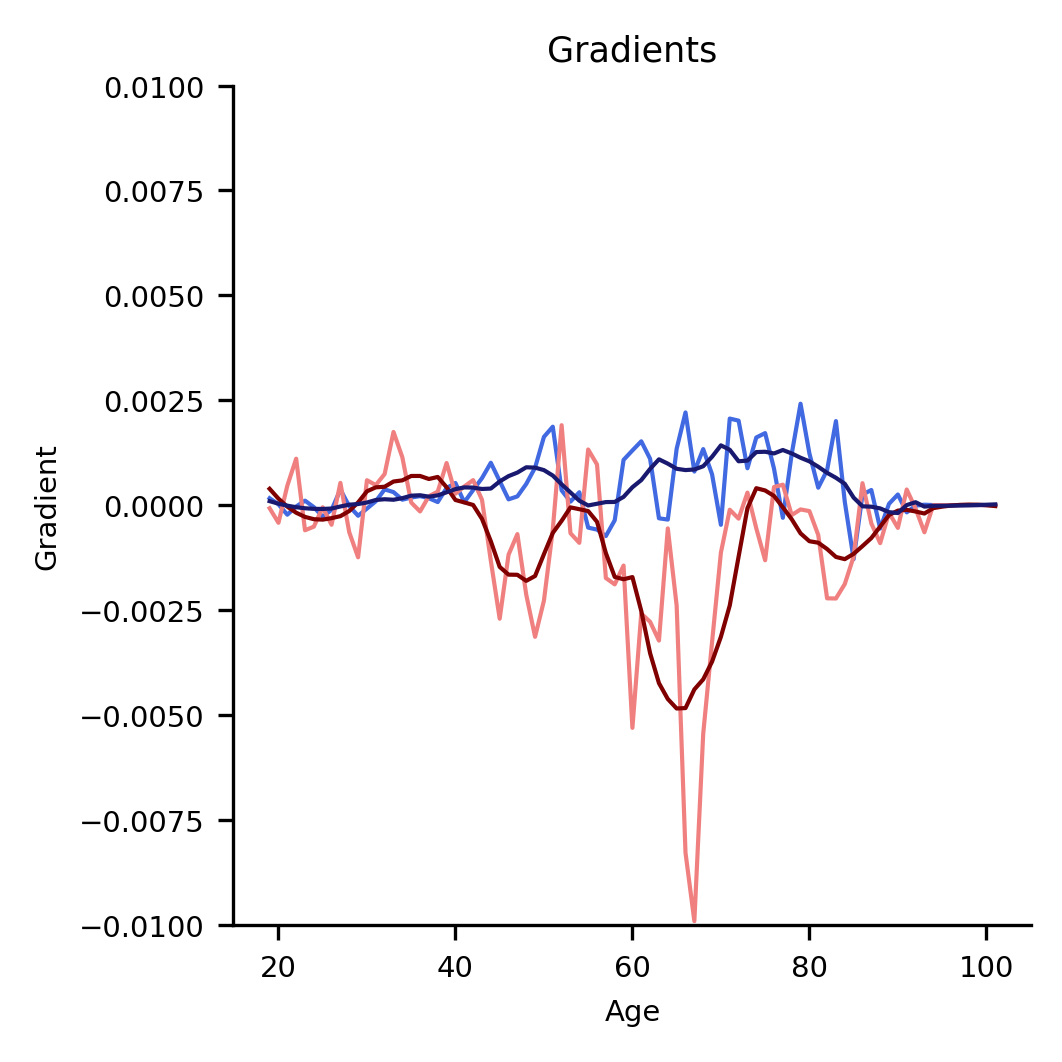
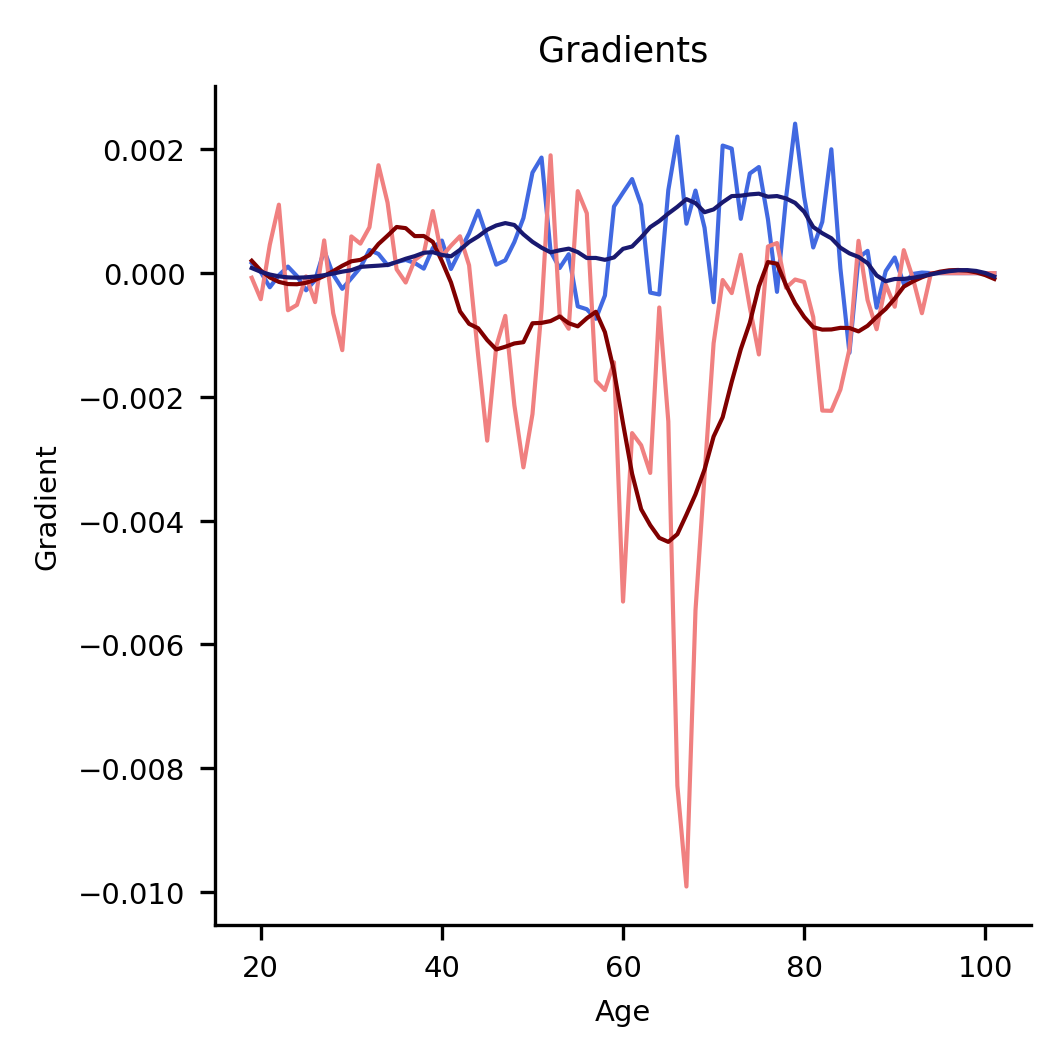
savgol

diff --git a/point_average/adjust_and_vis.py b/point_average/adjust_and_vis.py
@@ -203,12 +203,12 @@ def calc_derivatives(sel, ages, running_averages, marker_values):
     fig2,ax2 = plt.subplots(figsize=(9/2.54, 9/2.54))
     ax2.plot(np.arange(19,102),np.average(np.array(pos_sel_gradients),axis=0),color='royalblue', linewidth=1)
     ax2.plot(np.arange(19,102),np.average(np.array(neg_sel_gradients),axis=0),color='lightcoral', linewidth=1)
-    neg_sm = savgol_filter(np.average(np.array(neg_sel_gradients),axis=0),15,2)
-    pos_sm = savgol_filter(np.average(np.array(pos_sel_gradients),axis=0),15,2)
-    ax2.plot(np.arange(19,102),neg_sm,color='maroon', linewidth=1)
-    ax2.plot(np.arange(19,102),pos_sm,color='midnightblue', linewidth=1)
+    neg_sm = savgol_filter(np.average(np.array(neg_sel_gradients),axis=0),window_length=21,polyorder=3)
+    pos_sm = savgol_filter(np.average(np.array(pos_sel_gradients),axis=0),window_length=21,polyorder=3)
+    ax2.plot(np.arange(19,102),neg_sm,color='maroon', linewidth=1, label = 'Negative')
+    ax2.plot(np.arange(19,102),pos_sm,color='midnightblue', linewidth=1, label = 'Positive')
     ax2.set_title('Gradients')
-    ax2.set_ylim([-0.01,0.01])
+    plt.legend()
     ax2.spines['top'].set_visible(False)
     ax2.spines['right'].set_visible(False)
     ax2.set_ylabel('Gradient')
